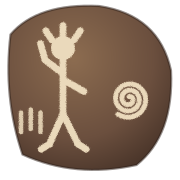
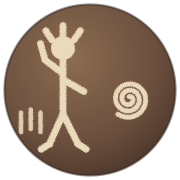
round the mark, and show each agent its own way
The logo boulder was an irregular blob; at favicon size the ragged edge read as
a rendering artifact, and avatars get circle-cropped anyway. It is a true circle
now, pecked texture intact. All renders and the OG card rebuilt.

Usage is split per agent, because the behaviour genuinely differs: Claude takes
the mark as a real session name and carries it to the phone over Remote Control,
while agy and codex have no name flag and get it on the title, the tmux window
and the registry. Every example is copied from actual dry-run output.

The opening now shows five sessions across two machines with a note on why each
auto-name is useless, and says plainly that renaming by hand is possible - the
point is that glyph does it at launch, for every agent, which matters most under
tmux, herdr or workmux.

Changed region(s): [[0.0, 0.0, 1.0, 1.0], [0.8056, 0.1389, 0.8889, 0.2222], [0.7778, 0.1111, 0.8056, 0.1389]]

diff --git a/docs/index.html b/docs/index.html
@@ -30,6 +30,7 @@
   header img{width:132px;height:132px;flex:none}
   h1{font-size:clamp(48px,9vw,76px);margin:0;letter-spacing:-.03em;line-height:1}
   .tag{color:var(--dust);font-size:clamp(17px,2.6vw,21px);margin-top:10px}
+  h3{font-size:17px;margin:30px 0 10px;color:var(--stone);font-weight:600}
   h2{font-size:15px;text-transform:uppercase;letter-spacing:.14em;color:var(--faint);
      margin:56px 0 16px;font-weight:600}
   p{margin:0 0 18px}
@@ -67,29 +68,41 @@
   <img src="/glyph.svg" alt="A petroglyph figure with a raised marking hand beside a spiral">
   <div>
     <h1>glyph</h1>
-    <div class="tag">One identity for every coding agent you run.</div>
+    <div class="tag">Every agent session, named before it starts.</div>
   </div>
 </header>
 
-<p class="lead">Open your agent sessions on a phone, or come back to a machine
-you walked away from an hour ago, and you get this:</p>
+<p class="lead">Five agents running across two machines. This is what you
+come back to:</p>
 
-<pre class="before">tims-macbook-pro-4-local-transient
-fru-5e
-doc-9b
-zsh</pre>
+<pre class="before">tims-macbook-pro-4-local-transient   <span class="cmt">&#8592; Claude Code, auto-derived</span>
+fru-5e                               <span class="cmt">&#8592; Claude Code, auto-derived</span>
+doc-9b                               <span class="cmt">&#8592; Claude Code on the other machine</span>
+zsh                                  <span class="cmt">&#8592; Codex. no session name at all</span>
+node                                 <span class="cmt">&#8592; Antigravity. same</span></pre>
 
-<p>Which machine? Which project? Started when? You cannot tell without opening
-each one. Claude Code names a session from your first message or auto-derives
-one, and most other agents do not name sessions at all.</p>
+<p>Two of them are the same project. One is on a machine you are not sitting at.
+One has been idle since yesterday. You cannot tell which is which without
+opening all five.</p>
 
-<p><code>glyph</code> cuts one mark into every session before it starts:</p>
+<p>Turn <code>glyph</code> on and the same five read:</p>
 
-<pre class="after"><b>billing·Acme API·mbp·2026-09-12·0556</b></pre>
+<pre class="after"><b>billing·Acme API·mbp·2026-09-12·0556
+migration·Acme API·mini·2026-09-12·0602
+docs·Website·mbp·2026-09-12·0611
+audit·Payments·mbp·2026-09-11·2247
+scrape·Atlas·mini·2026-09-12·0640</b></pre>
 
-<p>Your label, the project, the machine, the moment. A glyph is an incised mark,
-and the oldest thing anyone ever did with one was say <em>this is mine, and I
-was here.</em></p>
+<p>Label, project, machine, moment.</p>
+
+<p>Yes, you can rename a Claude session by hand, or long-press it in the mobile
+app, or type <code>/rename</code> once it is running. glyph does it for
+<strong>every session on every agent at launch</strong>, so there is nothing to
+remember and nothing to clean up later. It earns its keep the moment you are
+running more than one agent, more than one project, or more than one machine —
+exactly when tmux, <a href="https://herdr.dev">herdr</a> and
+<a href="https://github.com/raine/workmux">workmux</a> panes all start looking
+identical.</p>
 
 <h2>Install</h2>
 <pre>git clone https://github.com/fru-dev3/glyph.git
@@ -99,19 +112,45 @@ exec zsh</pre>
 one line into <code>~/.zshrc</code>.</p>
 
 <h2>Use</h2>
-<p>Nothing new to learn. Keep typing what you already type.</p>
-<pre>claude                    <span class="cmt"># Acme API·mbp·2026-09-12·0556</span>
-claude billing            <span class="cmt"># billing·Acme API·mbp·2026-09-12·0556</span>
-claude billing "fix X"    <span class="cmt"># same, and "fix X" is the first prompt</span>
-claude "fix the bug"      <span class="cmt"># a quoted phrase is a prompt, not a label</span>
-agy billing               <span class="cmt"># Antigravity, same mark on the window</span>
-codex billing             <span class="cmt"># Codex, same mark</span></pre>
-<p>A single bare word is your label. Anything with a space in it is a prompt.</p>
+<p>Keep typing the command you already type. The rule is the same everywhere:
+<strong>one bare word is your label, anything with a space is a prompt.</strong></p>
 
-<pre>glyph agents      <span class="cmt"># installed agents and their auto-approve flags</span>
-glyph ls          <span class="cmt"># recent sessions: when, agent, mark, machine</span>
-glyph name deploy <span class="cmt"># the mark this directory would produce</span>
-glyph fleet trio  <span class="cmt"># a preset of agents, each in its own marked pane</span></pre>
+<h3>Claude Code</h3>
+<p>Claude is the one agent that can name its own session, so the mark becomes the
+real session name and rides Remote Control to your phone.</p>
+<pre>claude
+<span class="cmt"># &#8594; claude -n 'Acme API·mbp·2026-09-12·0648' --remote-control</span>
+
+claude billing
+<span class="cmt"># &#8594; claude -n 'billing·Acme API·mbp·2026-09-12·0648' --remote-control</span>
+
+claude billing "fix the webhook retry"
+<span class="cmt"># &#8594; ...--remote-control 'fix the webhook retry'</span></pre>
+
+<h3>Antigravity</h3>
+<p><code>agy</code> has no session-name flag, so the mark goes on the terminal
+title, the tmux window, and <code>glyph ls</code>.</p>
+<pre>agy migration
+<span class="cmt"># &#8594; agy        window + title: migration·Acme API·mbp·2026-09-12·0648</span>
+
+GLYPH_YOLO=1 agy migration
+<span class="cmt"># &#8594; agy --dangerously-skip-permissions</span></pre>
+
+<h3>Codex</h3>
+<pre>codex audit
+<span class="cmt"># &#8594; codex      window + title: audit·Acme API·mbp·2026-09-12·0648</span>
+
+codex "refactor auth"
+<span class="cmt"># &#8594; codex 'refactor auth'   a phrase is a prompt, so only the project is marked</span>
+
+GLYPH_YOLO=1 codex audit
+<span class="cmt"># &#8594; codex --dangerously-bypass-approvals-and-sandbox</span></pre>
+
+<h3>Everything else</h3>
+<pre>glyph ls        <span class="cmt"># recent sessions: when, agent, mark, machine</span>
+glyph agents    <span class="cmt"># installed agents and their auto-approve flags</span>
+glyph name x    <span class="cmt"># the mark this directory would produce</span>
+glyph fleet ci  <span class="cmt"># a preset of agents, each in its own marked pane</span></pre>
 
 <h2>Agents</h2>
 <p>Only Claude Code can name its own session. For every other agent the glyph

diff --git a/README.md b/README.md
@@ -8,36 +8,45 @@
 
 `billing·Acme API·mbp·2026-09-12·0556`
 
-[Install](#install) · [Usage](#usage) · [Agents](#agents) · [glyph.fru.dev](https://glyph.fru.dev)
+[Install](#install) · [Usage](#usage) · [Fleets](#fleets) · [glyph.fru.dev](https://glyph.fru.dev)
 
 </div>
 
 ---
 
-You have four agent sessions open. This is your list:
+Five agents running across two machines. This is what you come back to:
 
 ```
-tims-macbook-pro-4-local-transient
-fru-5e
-doc-9b
-zsh
+tims-macbook-pro-4-local-transient   ← Claude Code, auto-derived
+fru-5e                               ← Claude Code, auto-derived
+doc-9b                               ← Claude Code on the other machine
+zsh                                  ← Codex. no session name at all
+node                                 ← Antigravity. same
 ```
 
-Which machine? Which project? Started when? You have to open each one to find
-out. Claude Code names a session from your first message, and most other agents
-never name one at all.
+Two of them are the same project. One is on a machine you are not sitting at.
+One has been idle since yesterday. You cannot tell which is which without
+opening all five.
 
-With glyph, the same four:
+Turn glyph on and the same five read:
 
 ```
 billing·Acme API·mbp·2026-09-12·0556
 migration·Acme API·mini·2026-09-12·0602
 docs·Website·mbp·2026-09-12·0611
-review·Payments·mini·2026-09-11·2247
+audit·Payments·mbp·2026-09-11·2247
+scrape·Atlas·mini·2026-09-12·0640
 ```
 
-Label, project, machine, moment. Every agent, every machine, before the first
-token.
+Label, project, machine, moment.
+
+Yes, you can rename a Claude session by hand, or long-press it in the mobile
+app, or type `/rename` once it is running. glyph does it for **every session on
+every agent at launch**, so there is nothing to remember and nothing to clean up
+later. It earns its keep the moment you are running more than one agent, more
+than one project, or more than one machine — which is exactly when
+[tmux](https://github.com/tmux/tmux), [herdr](https://herdr.dev) and
+[workmux](https://github.com/raine/workmux) panes all start looking identical.
 
 ## Install
 
@@ -51,34 +60,69 @@ agent CLI.
 
 ## Usage
 
-Nothing new to type. Keep using the command you already use:
+Keep typing the command you already type. The rule is the same everywhere:
+
+> **one bare word is your label. anything with a space is a prompt.**
+
+### Claude Code
+
+Claude is the one agent that can name its own session, so the mark becomes the
+real session name and rides Remote Control to your phone.
 
 ```sh
-claude                  # Acme API·mbp·2026-09-12·0556
-claude billing          # billing·Acme API·mbp·2026-09-12·0556
-claude billing "fix X"  # ...and "fix X" is the first prompt
-claude "fix the bug"    # a quoted phrase is a prompt, not a label
-agy billing             # Antigravity, same mark
-codex billing           # Codex, same mark
+claude
+# → claude -n 'Acme API·mbp·2026-09-12·0648' --remote-control
+
+claude billing
+# → claude -n 'billing·Acme API·mbp·2026-09-12·0648' --remote-control
+
+claude billing "fix the webhook retry"
+# → claude -n 'billing·…·0648' --remote-control 'fix the webhook retry'
 ```
 
-One bare word is your label. Anything with a space is a prompt.
+Open claude.ai/code or the phone app and that name is what you see in the list.
+
+### Antigravity
+
+`agy` has no session-name flag, so the mark goes on the terminal title, the tmux
+window, and `glyph ls`.
+
+```sh
+agy migration
+# → agy                      window + title: migration·Acme API·mbp·2026-09-12·0648
+
+GLYPH_YOLO=1 agy migration
+# → agy --dangerously-skip-permissions
+```
+
+### Codex
+
+Same as Antigravity — title, tmux window and registry:
+
+```sh
+codex audit
+# → codex                    window + title: audit·Acme API·mbp·2026-09-12·0648
+
+codex "refactor auth"
+# → codex 'refactor auth'    a phrase is a prompt, so only the project is marked
+
+GLYPH_YOLO=1 codex audit
+# → codex --dangerously-bypass-approvals-and-sandbox
+```
+
+### Everything else
 
 ```sh
 glyph ls        # recent sessions: when, agent, mark, machine
 glyph agents    # what is installed, and each one's auto-approve flag
-glyph fleet ci  # a preset of agents, each in its own marked pane
+glyph name x    # print the mark this directory would produce
 ```
 
 ## Agents
 
-Claude Code takes the mark as a real session name, so it reaches your phone
-through Remote Control. Every other agent gets it on the terminal title, the
-tmux window, and `glyph ls`.
-
 | Agent | Session name | `GLYPH_YOLO=1` sends |
 |---|:-:|---|
-| Claude Code | ✔ | `--dangerously-skip-permissions` |
+| Claude Code | ✔ real name | `--dangerously-skip-permissions` |
 | Antigravity | title | `--dangerously-skip-permissions` |
 | Codex | title | `--dangerously-bypass-approvals-and-sandbox` |
 | Gemini CLI | title | `--yolo` |
@@ -92,7 +136,8 @@ you. It is off unless you ask.
 
 ## Fleets
 
-Open a whole bench at once, local or over ssh, each pane wearing the mark:
+Open a whole bench at once, local or over ssh, each pane wearing the mark on its
+border:
 
 ```ini
 # ~/.config/glyph/fleet.conf
@@ -145,8 +190,7 @@ Two things that cost real debugging time:
   empties the positional parameters.
 
 glyph is an identity layer, not a multiplexer. It launches panes and gets out of
-the way — pair it with [workmux](https://github.com/raine/workmux) or plain tmux
-for the rest.
+the way — pair it with workmux, herdr or plain tmux for the rest.
 
 </details>
 
